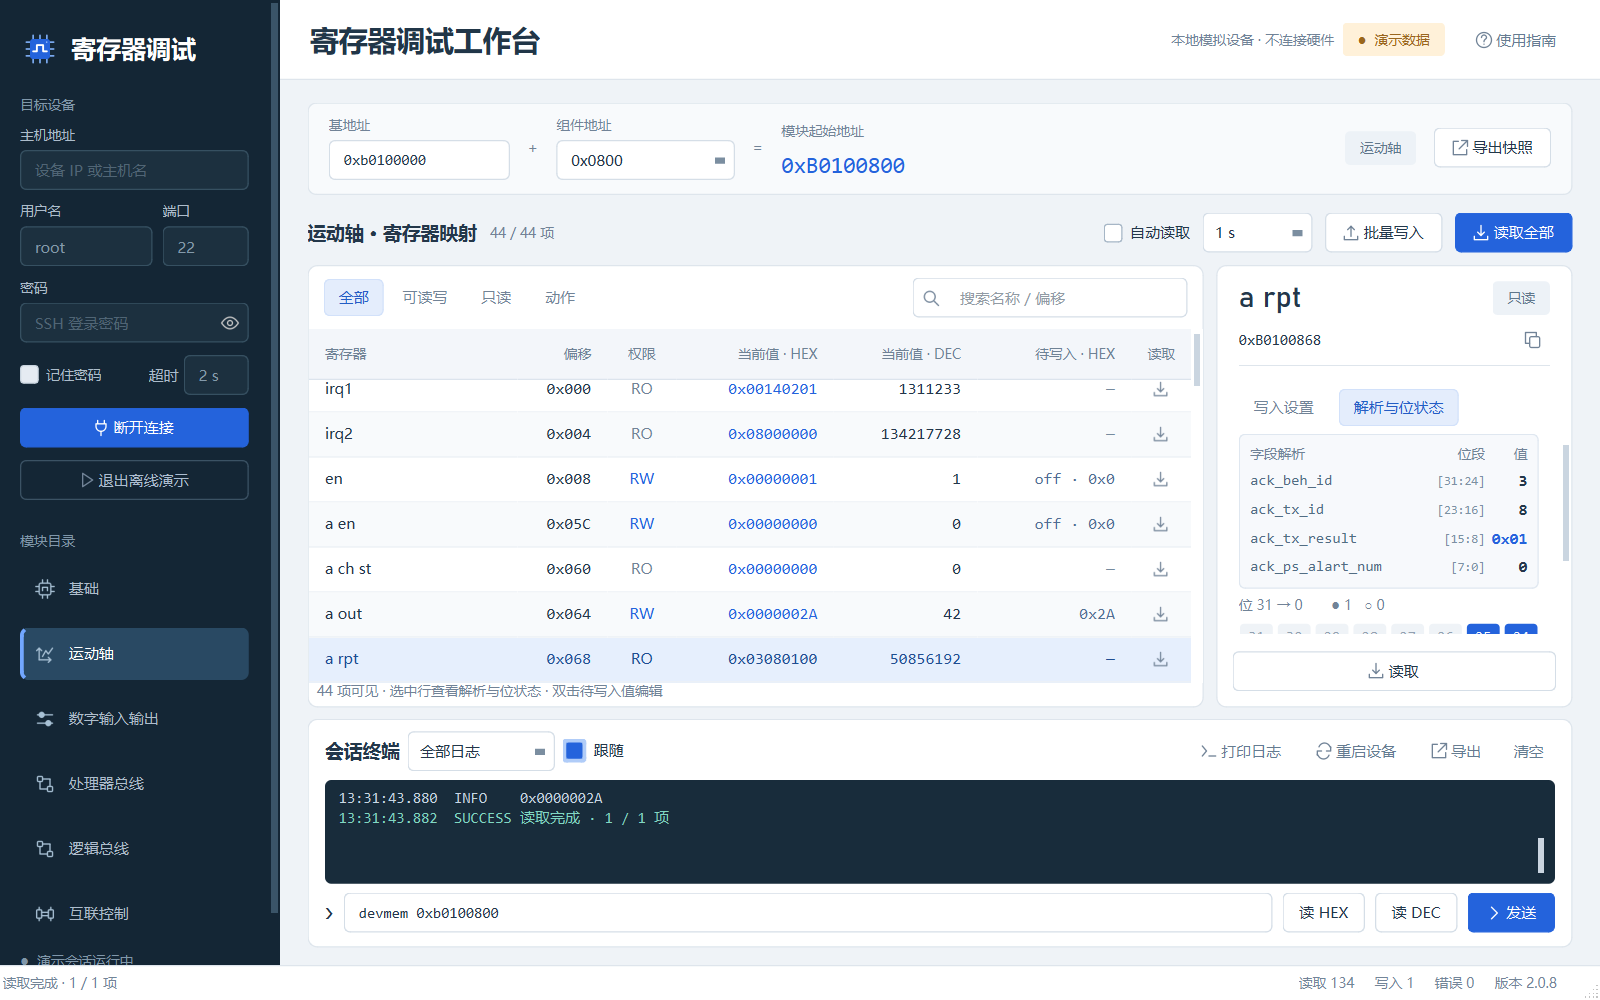
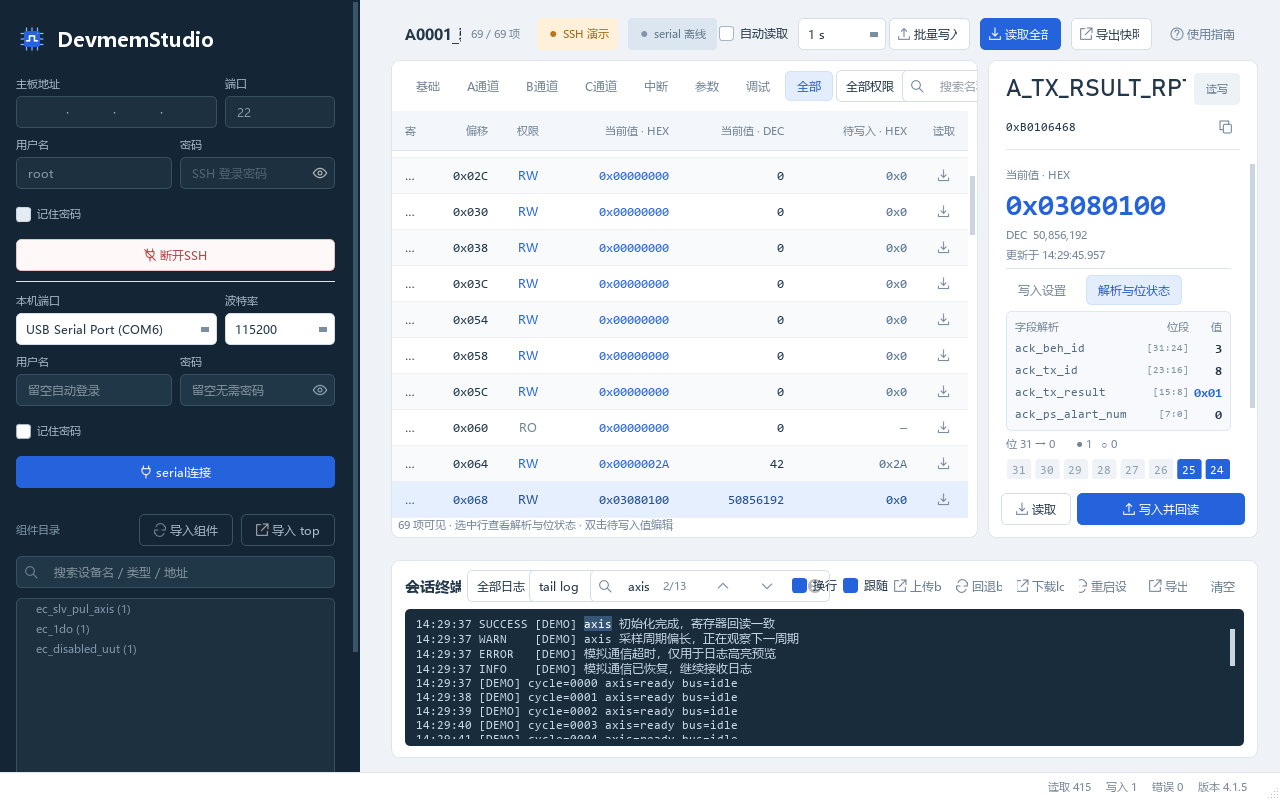
README 图片更新为 4.1.5 界面，修复标题行控件重叠
- docs/ 截图全部用当前代码重新生成（smoke），替换 4.1.x 之前的旧 UI 图片
- 修复寄存器标题行控件重叠：徽章定宽改用字体度量（此前 sizeHint 把 &nbsp; 按全角计入，虚高 32px 导致压住自动读取），固定控件钉住宽度、标题吃余量、长文本走 tooltip；隐藏重复的组件类型徽章，全地址移入 tooltip
- 等待提示仅在未连接时占位，连接后隐藏把空间让给组件标题
- VALIDATION.md 重写为 4.1.5 验收记录（161 项回归 + 75 项 smoke）
- 删除无人引用的旧 UI 截图 irq1-fields.png / irq2-fields.png

diff --git a/devmem_studio/window.py b/devmem_studio/window.py
@@ -12,7 +12,7 @@ import threading
 import time
 
 from PySide6.QtCore import Qt, QTimer, QThreadPool, QSize, Slot
-from PySide6.QtGui import QIcon, QFont, QColor, QShortcut, QKeySequence, QTextCharFormat, QTextCursor, QTextDocument
+from PySide6.QtGui import QIcon, QFont, QFontMetrics, QColor, QShortcut, QKeySequence, QTextCharFormat, QTextCursor, QTextDocument
 from PySide6.QtWidgets import (QMainWindow, QWidget, QFrame, QVBoxLayout, QHBoxLayout, QGridLayout,
                                QLineEdit, QSpinBox, QCheckBox, QComboBox, QLabel, QButtonGroup, QTableWidget,
                                QTableWidgetItem, QHeaderView, QAbstractItemView, QSplitter, QScrollArea,
@@ -342,6 +342,7 @@ class MainWindow(QMainWindow):
         self.write_all_button = button("批量写入", self.write_all, None, "write")
         self.remote_buttons.extend([self.read_all_button, self.write_all_button])
         self.module_badge = label("", "badge")
+        self.module_badge.hide()   # the type lives in the title/tooltip; it crowded the row
         self.export_button = button("导出快照", self.export_snapshot, None, "export")
         self.help_button = button("使用指南", lambda: show_help(self), "flat", "help")
         # Session state (formerly a top-right header bar): summary + SSH/serial badges
@@ -350,23 +351,42 @@ class MainWindow(QMainWindow):
         self.ssh_badge = label("", "badge")
         self.com_badge = label("", "badge")
         # Freeze each badge at its widest state text so 离线/已连接 toggles never
-        # change the badge size (which would shift the row layout).
-        ssh_variants = [self._badge_dot(s) + t for s, t in
-                        (("offline", "SSH 离线"), ("connected", "SSH 已连接"),
-                         ("demo", "SSH 演示"), ("connecting", "SSH 连接中"))]
-        com_variants = [self._badge_dot("offline") + "serial 离线",
-                        self._badge_dot("connected") + "serial 已连接",
-                        self._badge_dot("connecting") + "serial 连接中"]
-        for badge, variants in ((self.ssh_badge, ssh_variants), (self.com_badge, com_variants)):
-            for text in variants:
-                badge.setText(text)
-                badge.setMinimumWidth(max(badge.minimumWidth(), badge.sizeHint().width()))
-            badge.setFixedWidth(badge.minimumWidth())
+        # change the badge size (which would shift the row layout). Measure the
+        # plain text: the dot is a fixed 13px span, and the markup's &nbsp; would
+        # otherwise count as a full character's width and over-reserve the pill.
+        badges = ((self.ssh_badge, ("SSH 离线", "SSH 已连接", "SSH 演示", "SSH 连接中")),
+                  (self.com_badge, ("serial 离线", "serial 已连接", "serial 连接中")))
+        for badge, texts in badges:
+            metrics = QFontMetrics(badge.font())
+            widest = max(metrics.horizontalAdvance(t) for t in texts)
+            badge.setFixedWidth(widest + 18)   # 9px padding + 1px border each side
         self._update_connection_badge()
+        # The row is tighter than the sum of every label's hint at 1524px.
+        # Pin the fixed-size controls so they never shrink, and let the section
+        # title take the slack; the other labels yield space and carry their
+        # full text in a tooltip.
+        for control in (self.poll_check, self.interval, self.write_all_button,
+                        self.read_all_button, self.export_button, self.help_button,
+                        self.ssh_badge, self.com_badge):
+            control.setSizePolicy(QSizePolicy.Fixed, QSizePolicy.Fixed)
+        self.module_title.setMaximumWidth(320)
+        self.module_title.setMinimumWidth(56)
+        self.module_title.setSizePolicy(QSizePolicy.Preferred, QSizePolicy.Preferred)
+        for widget in (self.register_count, self.module_badge, self.target_label):
+            widget.setMaximumWidth(170)
+            widget.setMinimumWidth(56)
+            # Minimum: may shrink to minimumWidth, but never claims sizeHint
+            # space, so the row cannot be squeezed into an overlap.
+            widget.setSizePolicy(QSizePolicy.Minimum, QSizePolicy.Preferred)
         # 13px inner padding + the card's 1px border: the two section titles
         # (寄存器映射 / 会话终端) share a left edge; the cards below keep their
         # own full-width alignment.
-        title_row = row(self.module_title, self.register_count, 1, self.module_badge,
+        # Title row: the section title takes the slack, then the session state
+        # (waiting hint + SSH/serial badges) sits left of 自动读取, with the
+        # read/write controls and the guide on the right. The hint only occupies
+        # the row while nothing is connected; once a link is up the badges carry
+        # the state and the title gets the space back.
+        title_row = row(self.module_title, 1, self.register_count,
                         self.target_label, self.ssh_badge, self.com_badge,
                         self.poll_check, self.interval, self.write_all_button,
                         self.read_all_button, self.export_button, self.help_button,
@@ -397,7 +417,6 @@ class MainWindow(QMainWindow):
             self.view_buttons[key] = tab
             filters_layout.addWidget(tab)
         self.view_buttons["basic"].setChecked(True)
-        filters_layout.addStretch()
         self.access_filter = ComboBox()
         self.access_filter.addItems(["全部权限", "只读", "可读写"])
         self.access_filter.setFixedWidth(112)
@@ -1017,7 +1036,9 @@ class MainWindow(QMainWindow):
             restyle(self.base_field)
         self._module_start = start
         context = ("top", comp["module_type"], comp["bias"], base)
-        self.module_title.setText(f"{self._component_display_name(comp)} · 寄存器映射")
+        title = f"{self._component_display_name(comp)} · 寄存器映射"
+        self.module_title.setText(title)
+        self.module_title.setToolTip(title)   # elided at narrow widths; hover shows it all
         self.module_badge.setText(comp["module_type"] + ("" if exact else " ≈"))
         self.module_badge.setToolTip("组件类型来自导入的 top；≈ 表示使用通用回退寄存器表")
         if context == self._last_context:
@@ -1203,8 +1224,13 @@ class MainWindow(QMainWindow):
                 visible.append(index)
         self.visible_regs = [self.regs[index] for index in visible]
         if self.active_component:
-            address = f" · 全地址 0x{self._module_start:08X}" if self._module_start is not None else ""
-            self.register_count.setText(f"{len(visible)} / {len(self.regs)} 项{address}")
+            summary = f"{len(visible)} / {len(self.regs)} 项"
+            # The full address is a long tail; it lives in the tooltip so the
+            # title row stays readable next to the session badges.
+            self.register_count.setText(summary)
+            self.register_count.setToolTip(
+                f"{summary}可见 · 全地址 0x{self._module_start:08X}"
+                if self._module_start is not None else summary)
         else:
             self.register_count.setText("")
         self.empty_label.setVisible(not visible)
@@ -1698,17 +1724,17 @@ class MainWindow(QMainWindow):
         self._refresh_controls()
 
     def _refresh_target_label(self):
-        """Top-right SSH session summary; the serial state lives in the badges.
-        The waiting hint only shows when nothing at all is connected."""
-        if self.connected and self.demo:
-            text = "本地模拟设备"
-        elif self.connected:
-            text = f"SSH {self.user.text()}@{self.host.text()}:{self.port.value()}"
+        """Session hint for the register title row, shown only while nothing is
+        connected — the badges already carry the state once a link is up, and
+        the title row needs the space for the component name."""
+        if self.connected:
+            self.target_label.setVisible(False)   # badges say it; give the title room
         elif self.serial_connected:
-            text = ""
+            self.target_label.setVisible(False)
         else:
-            text = "等待建立设备会话"
-        self.target_label.setText(text)
+            self.target_label.setText("等待建立设备会话")
+            self.target_label.setToolTip("SSH 或 serial 任一连接后提示消失")
+            self.target_label.setVisible(True)
 
     def _update_connection_badge(self):
         """Refresh the two independent SSH/serial status badges in the top-right.

diff --git a/docs/VALIDATION.md b/docs/VALIDATION.md
@@ -1,67 +1,53 @@
-# 寄存器调试工作台 2.0.8 验收记录
+# 寄存器调试工作台 4.1.5 验收记录
 
-完成时间：2026-09-09T13:32:51+08:00
+完成时间：2026-09-25
 
-- 构建环境：本项目 venv，Python 3.12.2，Paramiko 4.0.0，Windows 11 x64。
-- 最终产物：dist/DevmemStudio.exe，52,349,331 字节。
-- 格式：Windows x64 GUI 单文件 EXE，无控制台窗口；文件及产品版本均为 2.0.8。
-- 发布包：dist/DevmemStudio-2.0.8-win64.zip；ZIP 完整性和文件清单检查通过。
[1 lines of base64/hex data omitted]
+- 构建环境：本项目 venv，Python 3.12.2，Paramiko 4.0.0，Windows 10 x64。
+- 最终产物：`dist/DevmemStudio.exe`；文件及产品版本均为 4.1.5。
+- 发布包：`dist/DevmemStudio-4.1.5-win64.zip`。
+- 独立 EXE 验收：只复制 EXE 运行，PATH 仅保留 Windows System32，清除 Python / venv 及 Qt 外部插件路径。
 
 ## 本次功能
 
-打印日志窗口默认开启「自动换行」和「显示行号」，两个开关可分别切换。长文本与连续十六进制数据随窗口宽度折行显示，复制和保存仍保留原始内容。
-
-左侧行号与 Ctrl+G 使用相同的缓存原始行编号。一条原始日志折成多行时，只在首个显示行绘制行号；续行不占用新编号。行号宽度随位数和字体调整，与日志视口同步滚动及缩放。当前定位行的行号使用金色强调。
-
-切换换行或行号显示保留当前查找结果与自动跟随状态，日志继续接收。最多保留最近 5000 个原始行；淘汰旧行或清空后按当前缓存重新编号。
-
-既有高亮、快捷查找与跳转、独立日志通道、SSH 兼容与主机密钥恢复功能保留。基础组件与 irq1 / irq2、a / b / c rpt 字段解析继续通过回归验收。
+会话终端重构为四来源（tail log / ssh / serial / system）独立缓冲，终端本身即 shell；
+串口连接成为独立于 SSH 的并行通道，连接与断开均可主动取消；侧栏可拖拽调宽；
+顶部横幅并入寄存器标题行；使用指南同步当前交互。
 
 ## 自动化验收
 
-52 项回归测试全部通过。本次重点覆盖：
+`build_exe.bat` 流水线一次通过：全量 161 项回归测试（OK）→ 离线 smoke 75 项检查（全部通过）
+→ PyInstaller 打包 → EXE 隔离验证 → 发布包生成。
 
-- 中文、表情与连续无空格十六进制长日志自动折行，原始行数不变；关闭换行后恢复单行及横向滚动。
-- 实际复制与保存的文本等于接收原文，不包含行号或显示换行新增的换行符。
-- 切换两项显示开关后，当前匹配位置、匹配计数和跟随状态保留；Ctrl+G / Enter 仍跳至原始日志行。
-- 查找期间继续接收新日志，匹配数量更新；回到最新后切换换行仍跟随日志末尾，显示操作不会启动或停止日志通道。
-- 行数由 99 增至 100 时行号栏扩宽；字体调整、窗口缩放后行号栏与视口对齐；缓存淘汰后缩窄并按剩余日志重新编号。
-- 最终 EXE 验证默认开关、连续长数据折行、查找保留、行号开关、原始行跳转及紧凑窗口控件完整可见。
+重点覆盖：
 
-既有 SSH 兼容、主机密钥变化恢复、独立日志窗口、高亮查找、日志与寄存器并行操作测试继续通过。
-
-| 场景 | 结果 | 检查项 | 实际设备像素比 | 内置 Paramiko |
-|---|---|---:|---:|---|
-| build-smoke | 通过 | 70 | 1.0 | 4.0.0 |
-| exe-isolated | 通过 | 70 | 1.0 | 4.0.0 |
-| exe-native | 通过 | 70 | 1.25 | 4.0.0 |
-| exe-dpi150 | 通过 | 70 | 1.875 | 4.0.0 |
-
-独立 EXE 验收只复制 EXE，PATH 仅保留 Windows System32，清除 Python / venv 及 Qt 外部插件路径。三个 EXE 验收副本、ZIP 内 EXE 的 SHA-256 均与最终发布 EXE 一致。高 DPI 场景在本机系统缩放基础上设置 QT_SCALE_FACTOR=1.5。
-
-本机 registers.json 的 SHA-256 在修改前后保持一致，发布 ZIP 和 EXE 数据文件中不包含设备配置或 known_hosts。发布包使用说明已包含自动换行和行号操作说明。
+- 会话终端四来源缓冲隔离、切换、默认 system 且不记忆。
+- 终端内输入命令（回车执行、↑↓ 历史）、tail log / system 只读。
+- 串口与 SSH 同时在线、互不禁用；两种连接的取消均可即时中止。
+- serial 握手期间显示与 SSH 相同的不定进度条，结束后收回。
+- SSH / serial 双徽章状态：离线 / 连接中 / 已连接 / 演示，宽度固定不跳动。
+- 底栏状态提示并入 system 终端，底栏只留读写错误计数与版本。
+- 查找日志随输随查、当前/总数计数、Ctrl+F 填充选中文字；导出当前终端。
+- 侧栏拖拽调宽、寄存器标题行在 1180–1920 宽度下不重叠。
+- 主机密钥变化确认/拒绝、寄存器读写回读、批量读写、CSV 快照、导入组件。
 
 ## 界面检查
 
-- [日志自动换行、行号及高亮查找](board-log.png)
-- [紧凑日志窗口](board-log-compact.png)
 - [主窗口与寄存器解析](workbench.png)
+- [会话终端（system 视图）](board-log.png)
+- [紧凑窗口](compact.png)
 - [基础组件](basic-component.png)
+- [字段解析](rpt-fields-compact.png)
+- [主机密钥变化提示](host-key-change.png)
 
-已目视检查源码、原生 EXE 及高 DPI EXE 的日志截图：行号与对应原始日志首行对齐，长日志在视口内完整折行，续行不重复编号，底部开关、查找与跳转控件均可见。截图和导出验收文件均为明确标注的离线演示数据。
+截图均为明确标注的离线演示数据（DemoSession），未连接实际板卡。
 
 ## 证据位置
 
-- 完整构建流水线日志：artifacts/build-final.log
-- 日志回归测试：tests/test_log_view.py；运行结果包含在完整构建日志中
-- 发布包与配置校验：artifacts/log-layout-release-audit.json
-- 开发版本验收：artifacts/build-smoke/report.json
-- 单 EXE 隔离验收：artifacts/exe-isolated/acceptance/report.json
-- Windows 原生验收：artifacts/exe-native/acceptance/report.json
-- 高 DPI 验收：artifacts/exe-dpi150/acceptance/report.json
-- 高 DPI 日志截图：artifacts/exe-dpi150/acceptance/board-log-compact.png
+- 开发版本验收：`artifacts/docshots/report.json`（75 项检查全部通过）
+- 全量回归结果：包含在 `build_exe.bat` 构建日志中
+- 完整构建流水线日志：`artifacts/build.log`
 
 ## 验证范围
 
-本次用离线演示和本机 SSH 回环服务进行验收，未连接或读写实际板卡。行号表示当前保留日志缓存中的行，并非板端文件从文件开头计算的绝对行号；tail -f 默认输出末尾内容，现有日志缓存机制保持不变。
+本次用离线演示和本机 SSH 回环服务进行验收，未连接或读写实际开发板。实际硬件上的权限、
+总线访问行为、寄存器副作用和板端日志路径仍需在现场验证。

diff --git a/README.md b/README.md
@@ -37,6 +37,7 @@
 - 徽章、按钮、下拉框统一 32px 高；离线底色加深（原色与工作区背景几乎同色）、已连接绿底加深、信号中状态新增（serial 连接中）。
 - serial 新增「连接中」徽章状态；SSH 连接中状态由统一判断维护，修复并发刷新打回离线、主机密钥等待时卡连接中的问题。
 - 侧栏可拖拽调宽（与寄存器/终端分隔条同款 9px 手柄）。
+- 寄存器标题行在 1180–1920 宽度下不再重叠：固定控件钉住宽度，标题吃余量，长文本走 tooltip。
 
 ## 4.1.1 发布
 
@@ -140,8 +141,6 @@
 - 打印日志窗口默认开启「自动换行」与「显示行号」，可分别勾选切换。长文本、连续十六进制数据随窗口宽度自动折行。
 - 左侧按当前缓存的原始行编号，折行后的续行不重复编号；与 Ctrl+G 跳转对应。行号宽度随位数、字体和窗口缩放调整。
 - 换行和行号不改变复制、保存的日志原文；切换显示时保留查找匹配和自动跟随状态，日志继续接收。
-
-![日志自动换行与行号（离线演示数据）](docs/board-log.png)
 
 ## 2.0.7 优化
 
